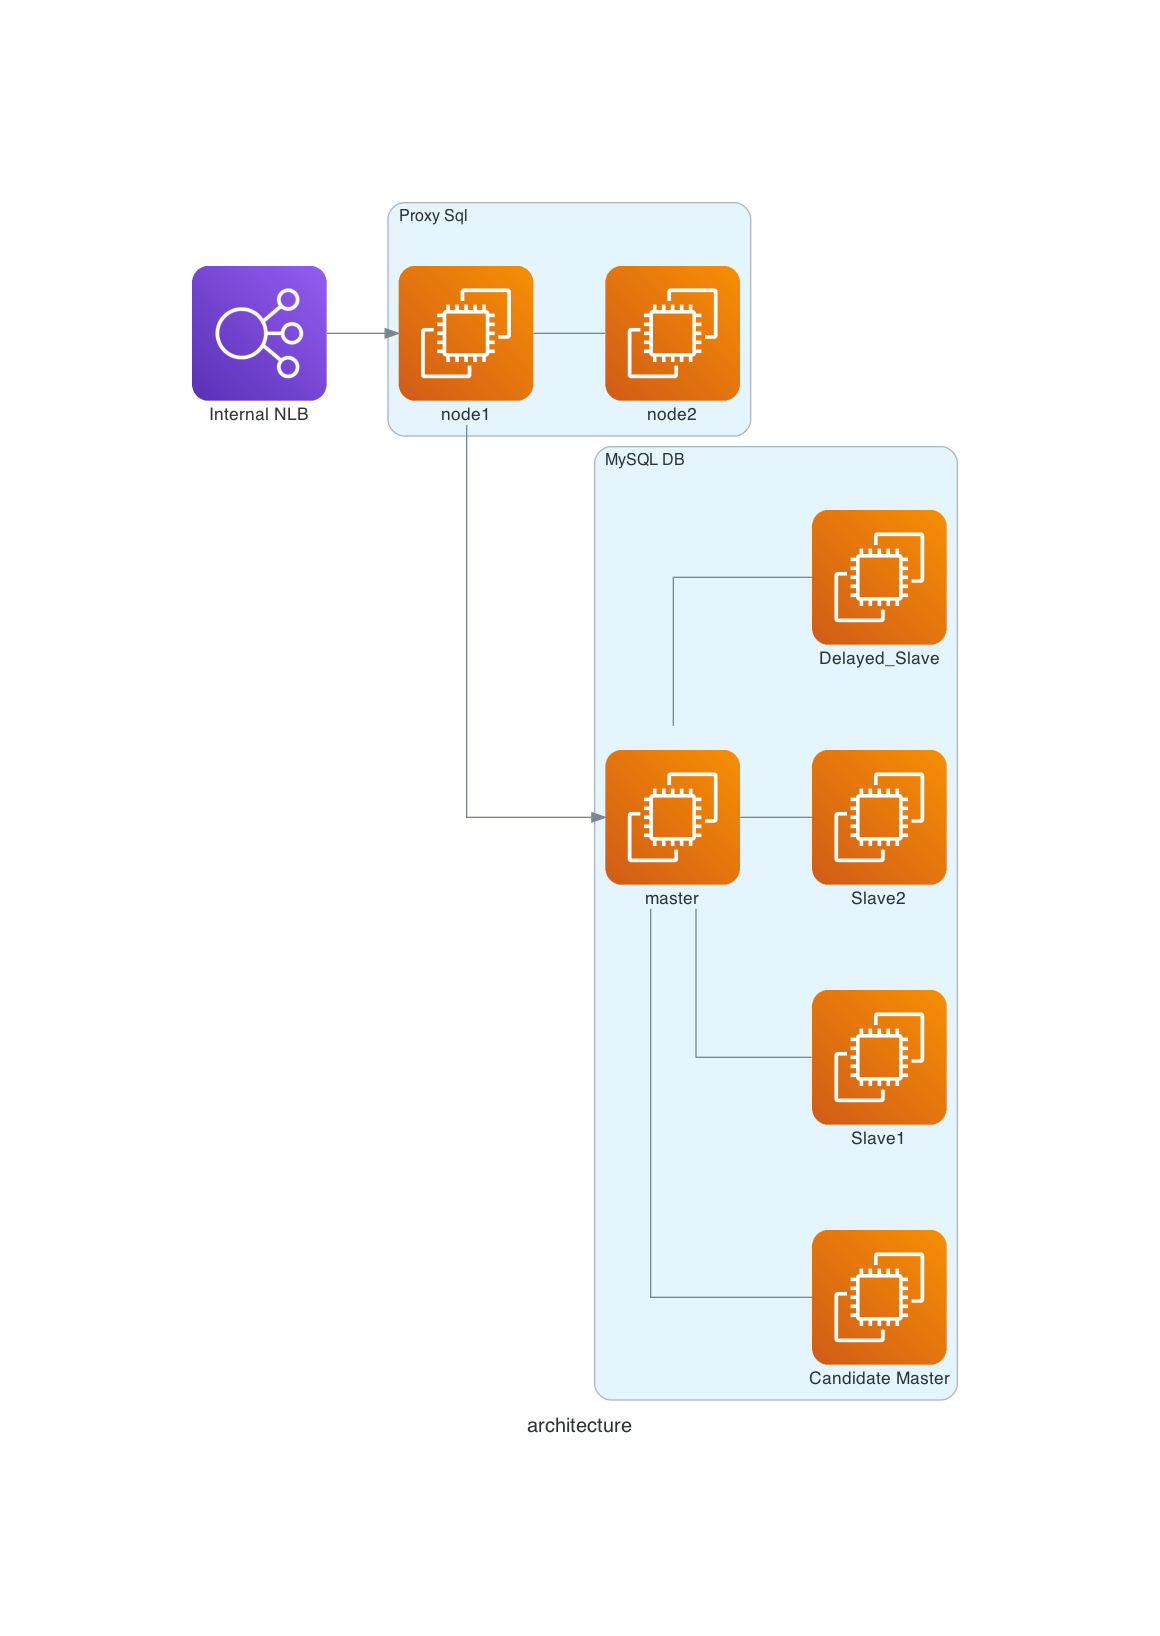
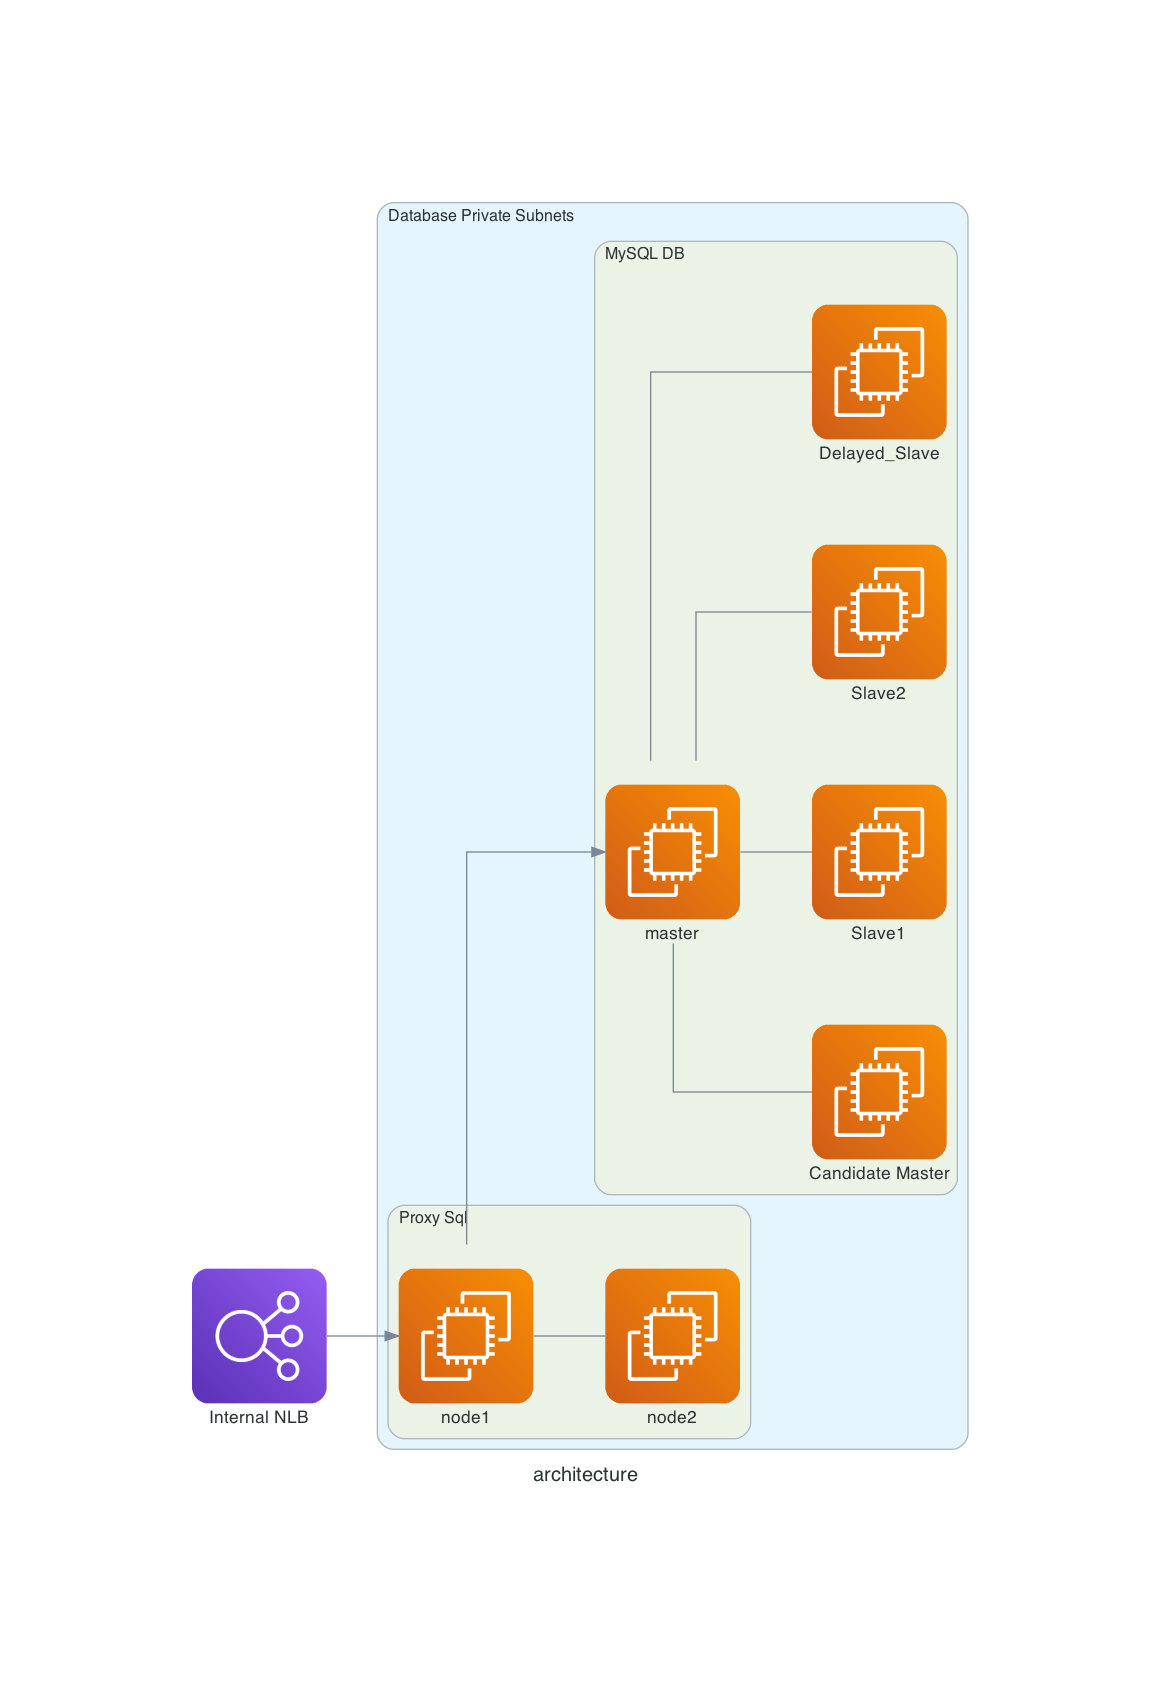
added subnets

diff --git a/simple-three-tier-ecs-with-redis/diagram.py b/simple-three-tier-ecs-with-redis/diagram.py
@@ -6,26 +6,32 @@ from diagrams.aws.network import Route53
 
 with Diagram("architecture", show=False):
     dns = Route53("dns")
-    ext_lb = ELB("External ALB")
-    int_lb = ELB("Internal ALB")
+ 
+    with Cluster("Public Subnet"):
+        ext_lb = ELB("External ALB")
+    
+    with Cluster("Private Subnet"):
+        int_lb = ELB("Internal ALB")
 
-    with Cluster("Nginx-ECS"):
-        nginx = [ECS("Nginx"),
-                     ECS("Nginx"),
-                     ECS("Nginx")]
+        with Cluster("Nginx-ECS"):
+            nginx = [ECS("Nginx"),
+                        ECS("Nginx"),
+                        ECS("Nginx")]
 
-    with Cluster("API-ECS"):
-        backend = [ECS("Api"),
-                     ECS("Api"),
-                     ECS("Api")]
+        with Cluster("API-ECS"):
+            backend = [ECS("Api"),
+                         ECS("Api"),
+                         ECS("Api")]
 
-    with Cluster("DB Cluster"):
-        db = RDS("Master")
-        db - [RDS("Slave")]
+    with Cluster("Database Subnet"): 
 
-    with Cluster("Redis Sentinel"):
-        redis = EC2("node1")
-        redis - [EC2("node2"),EC2("node3")]
+        with Cluster("DB Cluster"):
+            db = RDS("Master")
+            db - [RDS("Slave")]
+
+        with Cluster("Redis Sentinel"):
+            redis = EC2("node1")
+            redis - [EC2("node2"),EC2("node3")]
 
 
     dns >> ext_lb >> nginx

diff --git a/highly-available-scalable-mysql-database-on-ec2/diagram.py b/highly-available-scalable-mysql-database-on-ec2/diagram.py
@@ -3,15 +3,16 @@ from diagrams.aws.compute import EC2
 from diagrams.aws.network import ELB
 
 with Diagram("architecture", show=False):
-    int_lb = ELB("Internal NLB")
+    
+    with Cluster("Database Private Subnets"):
+        int_lb = ELB("Internal NLB")
 
-    with Cluster("Proxy Sql"):
-        proxysql = EC2("node1")
-        proxysql - [EC2("node2")]
+        with Cluster("Proxy Sql"):
+            proxysql = EC2("node1")
+            proxysql - [EC2("node2")]
 
-    with Cluster("MySQL DB"):
-        db = EC2("master")
-        db - [EC2("Candidate Master"), EC2("Slave1"), EC2("Slave2"), EC2("Delayed_Slave")]
+        with Cluster("MySQL DB"):
+            db = EC2("master")
+            db - [EC2("Candidate Master"), EC2("Slave1"), EC2("Slave2"), EC2("Delayed_Slave")]
 
-
-    int_lb >> proxysql >> db
+        int_lb >> proxysql >> db
